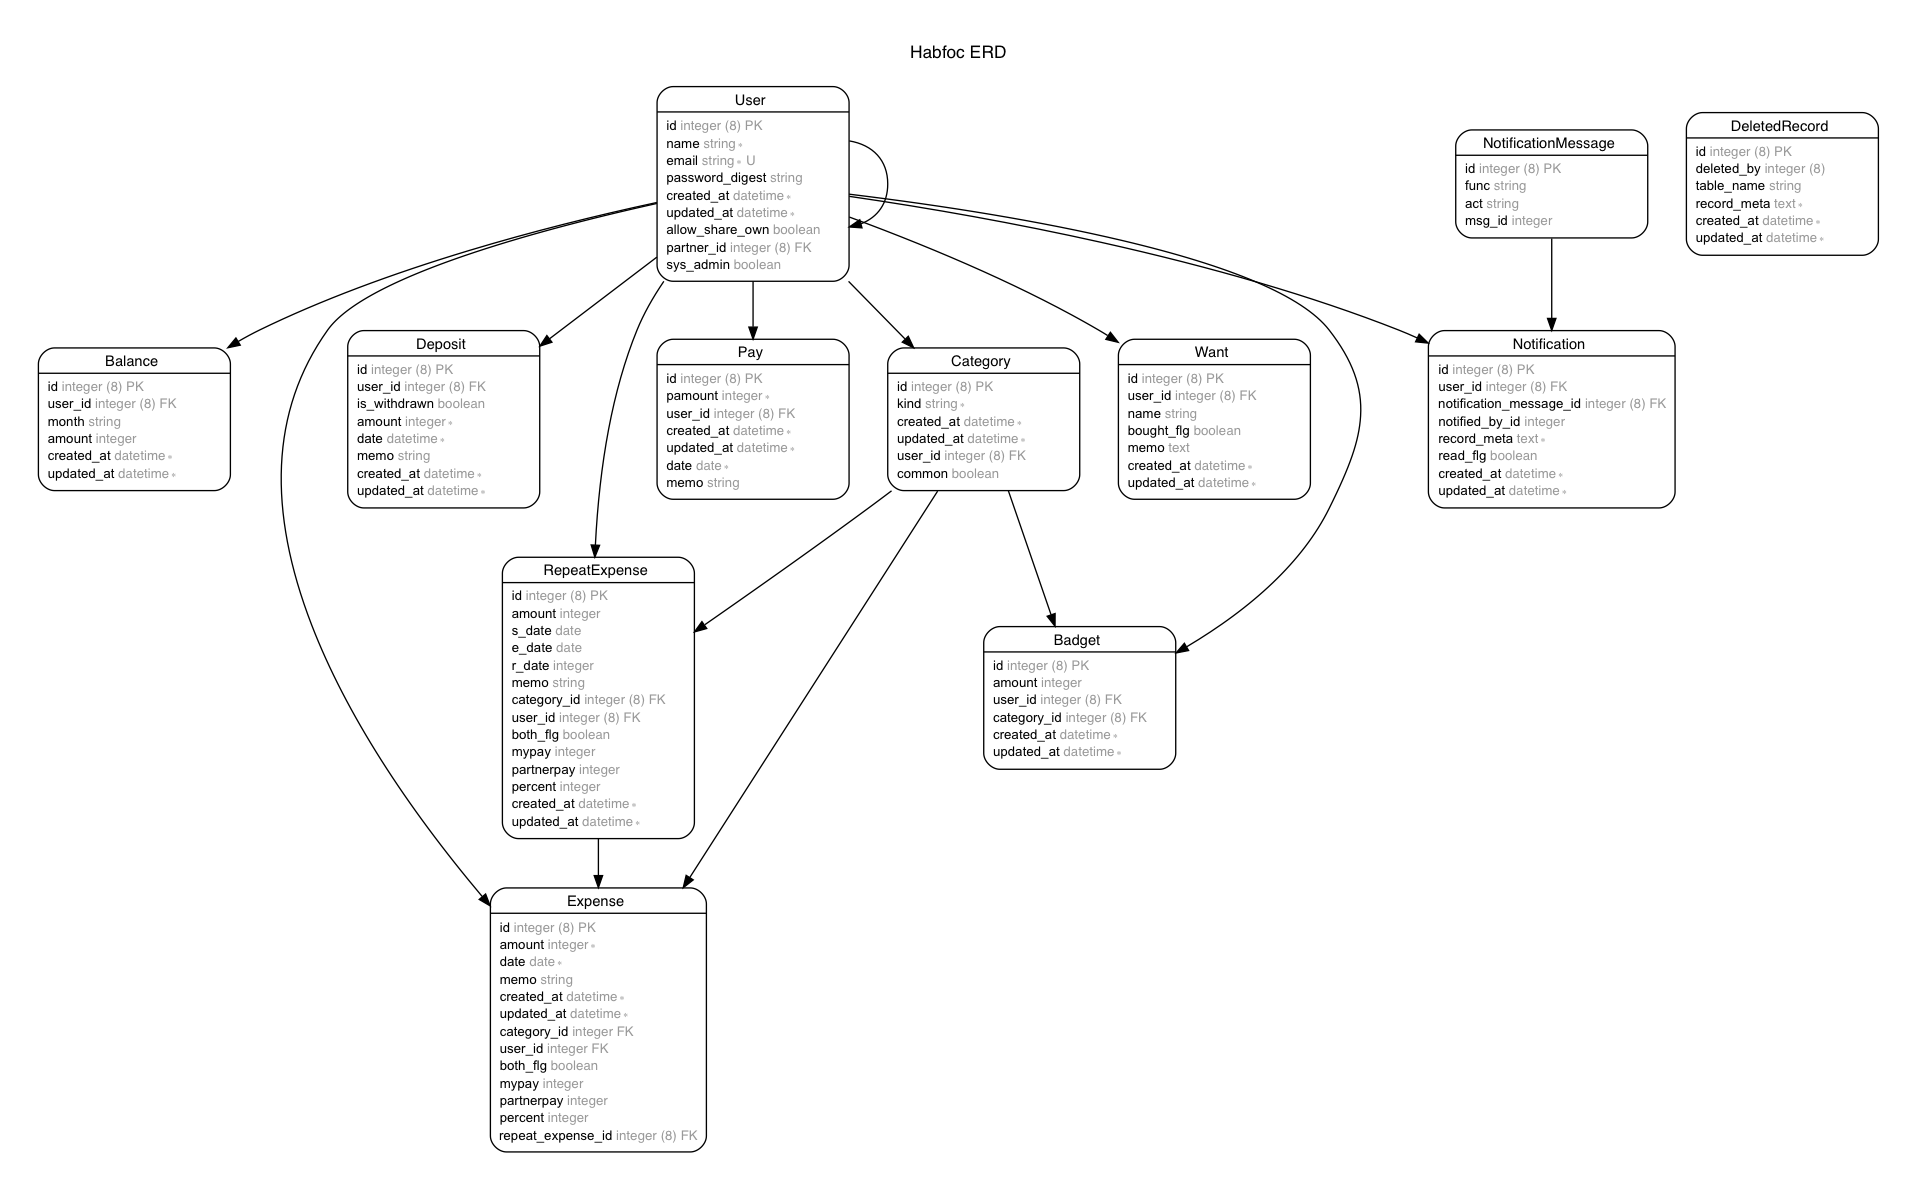
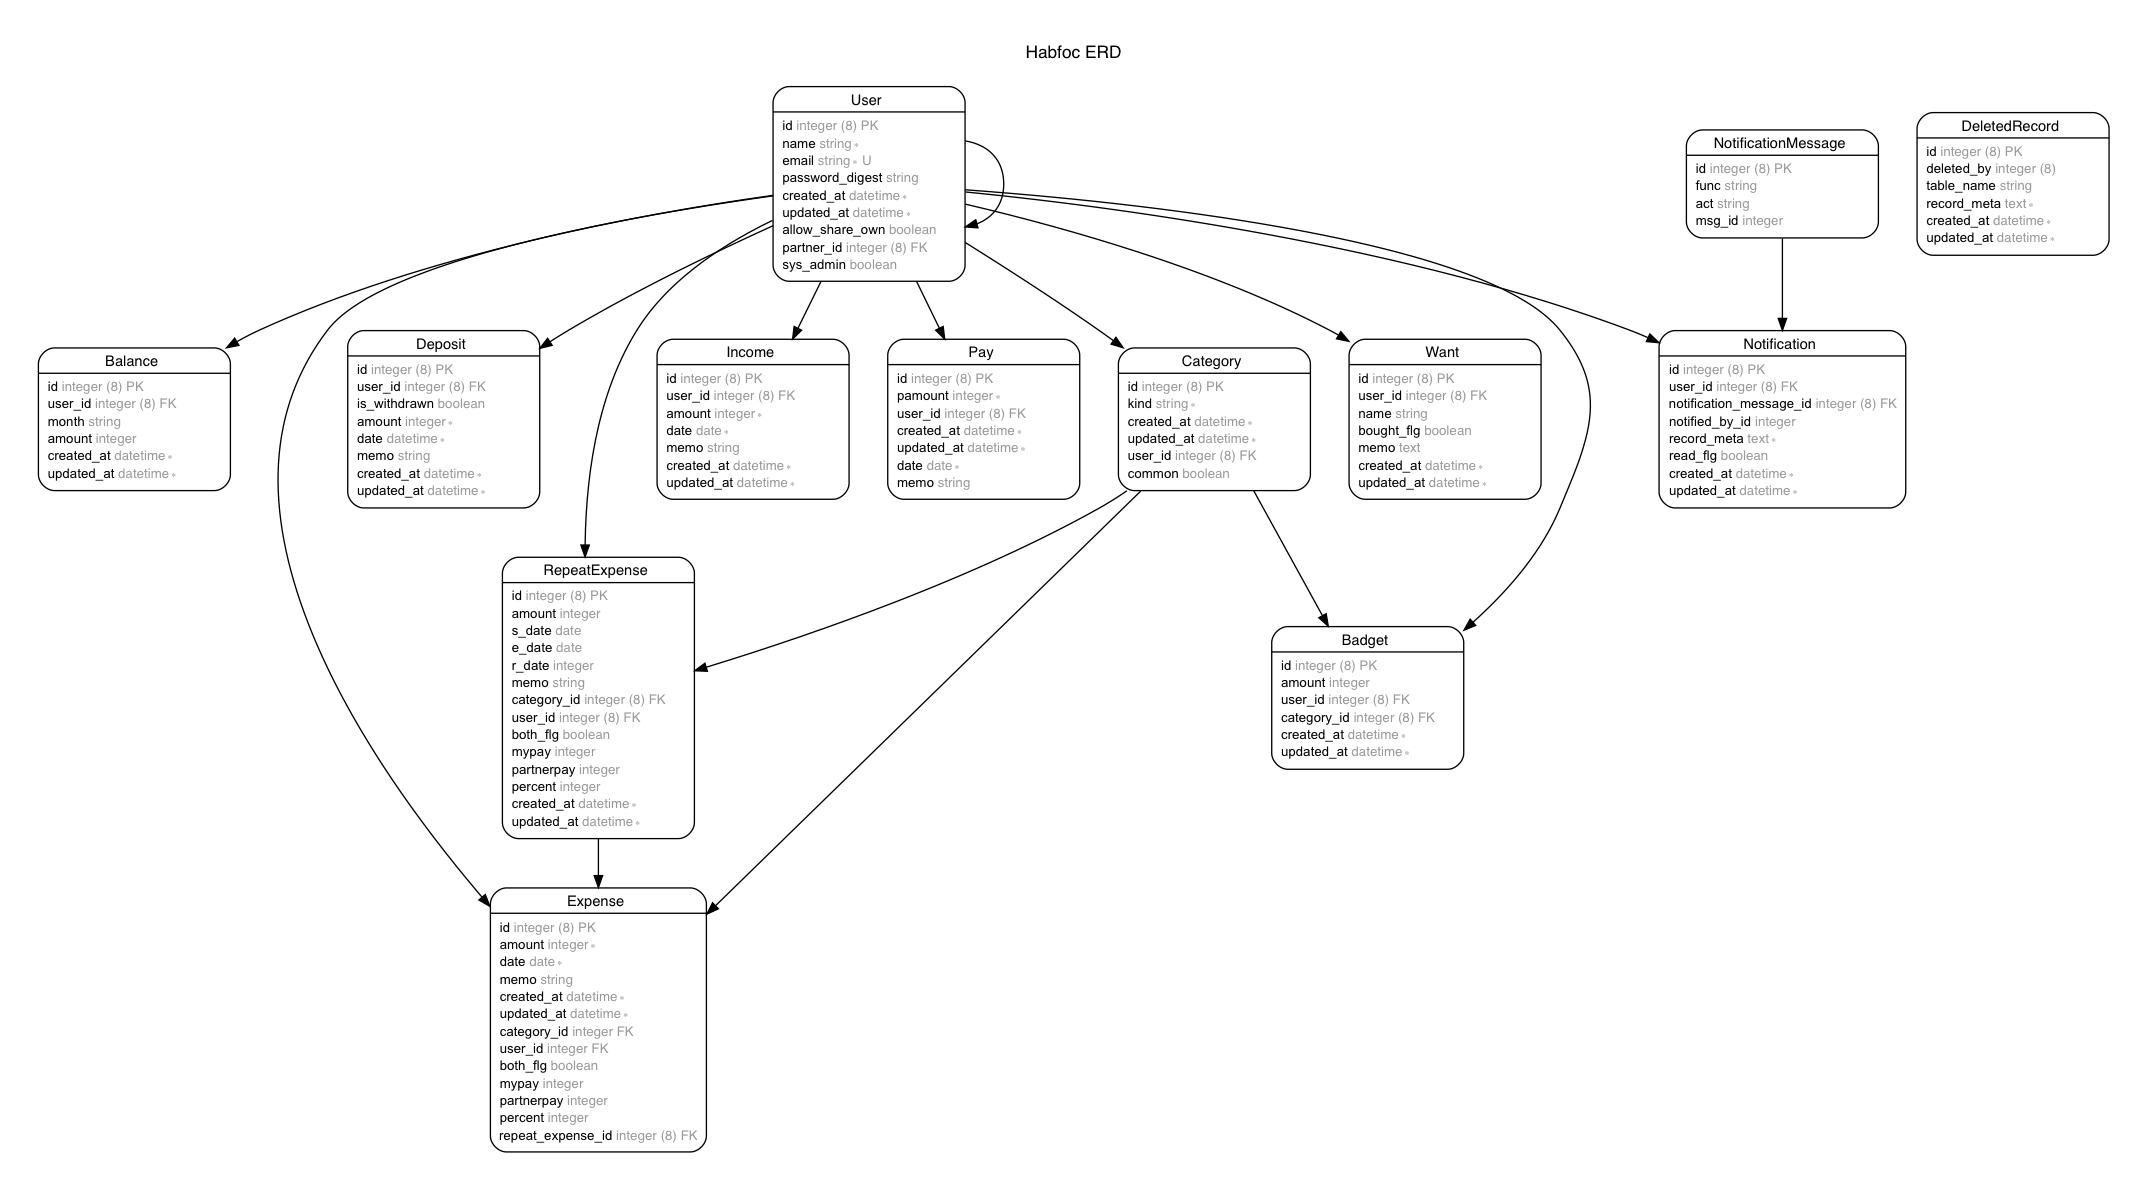
add incomes table

diff --git a/db/schema.rb b/db/schema.rb
@@ -10,7 +10,7 @@
 #
 # It's strongly recommended that you check this file into your version control system.
 
-ActiveRecord::Schema.define(version: 2019_01_27_102436) do
+ActiveRecord::Schema.define(version: 2019_02_03_054539) do
 
   # These are extensions that must be enabled in order to support this database
   enable_extension "plpgsql"
@@ -78,6 +78,16 @@ ActiveRecord::Schema.define(version: 2019_01_27_102436) do
     t.integer "percent"
     t.bigint "repeat_expense_id"
     t.index ["repeat_expense_id"], name: "index_expenses_on_repeat_expense_id"
+  end
+
+  create_table "incomes", force: :cascade do |t|
+    t.bigint "user_id"
+    t.integer "amount"
+    t.date "date"
+    t.string "memo"
+    t.datetime "created_at", null: false
+    t.datetime "updated_at", null: false
+    t.index ["user_id"], name: "index_incomes_on_user_id"
   end
 
   create_table "notification_messages", force: :cascade do |t|
@@ -157,6 +167,7 @@ ActiveRecord::Schema.define(version: 2019_01_27_102436) do
   add_foreign_key "deleted_records", "users", column: "deleted_by"
   add_foreign_key "deposits", "users"
   add_foreign_key "expenses", "repeat_expenses"
+  add_foreign_key "incomes", "users"
   add_foreign_key "notifications", "notification_messages"
   add_foreign_key "notifications", "users"
   add_foreign_key "pays", "users"

diff --git a/db/migrate/20181224073448_create_incomes.rb b/db/migrate/20181224073448_create_incomes.rb
@@ -1,0 +1,11 @@
+class CreateIncomes < ActiveRecord::Migration[5.2]
+  def change
+    create_table :incomes do |t|
+      t.references :user, foreign_key: true
+      t.integer :amount
+      t.date :date
+      t.string :memo
+      t.timestamps
+    end
+  end
+end
